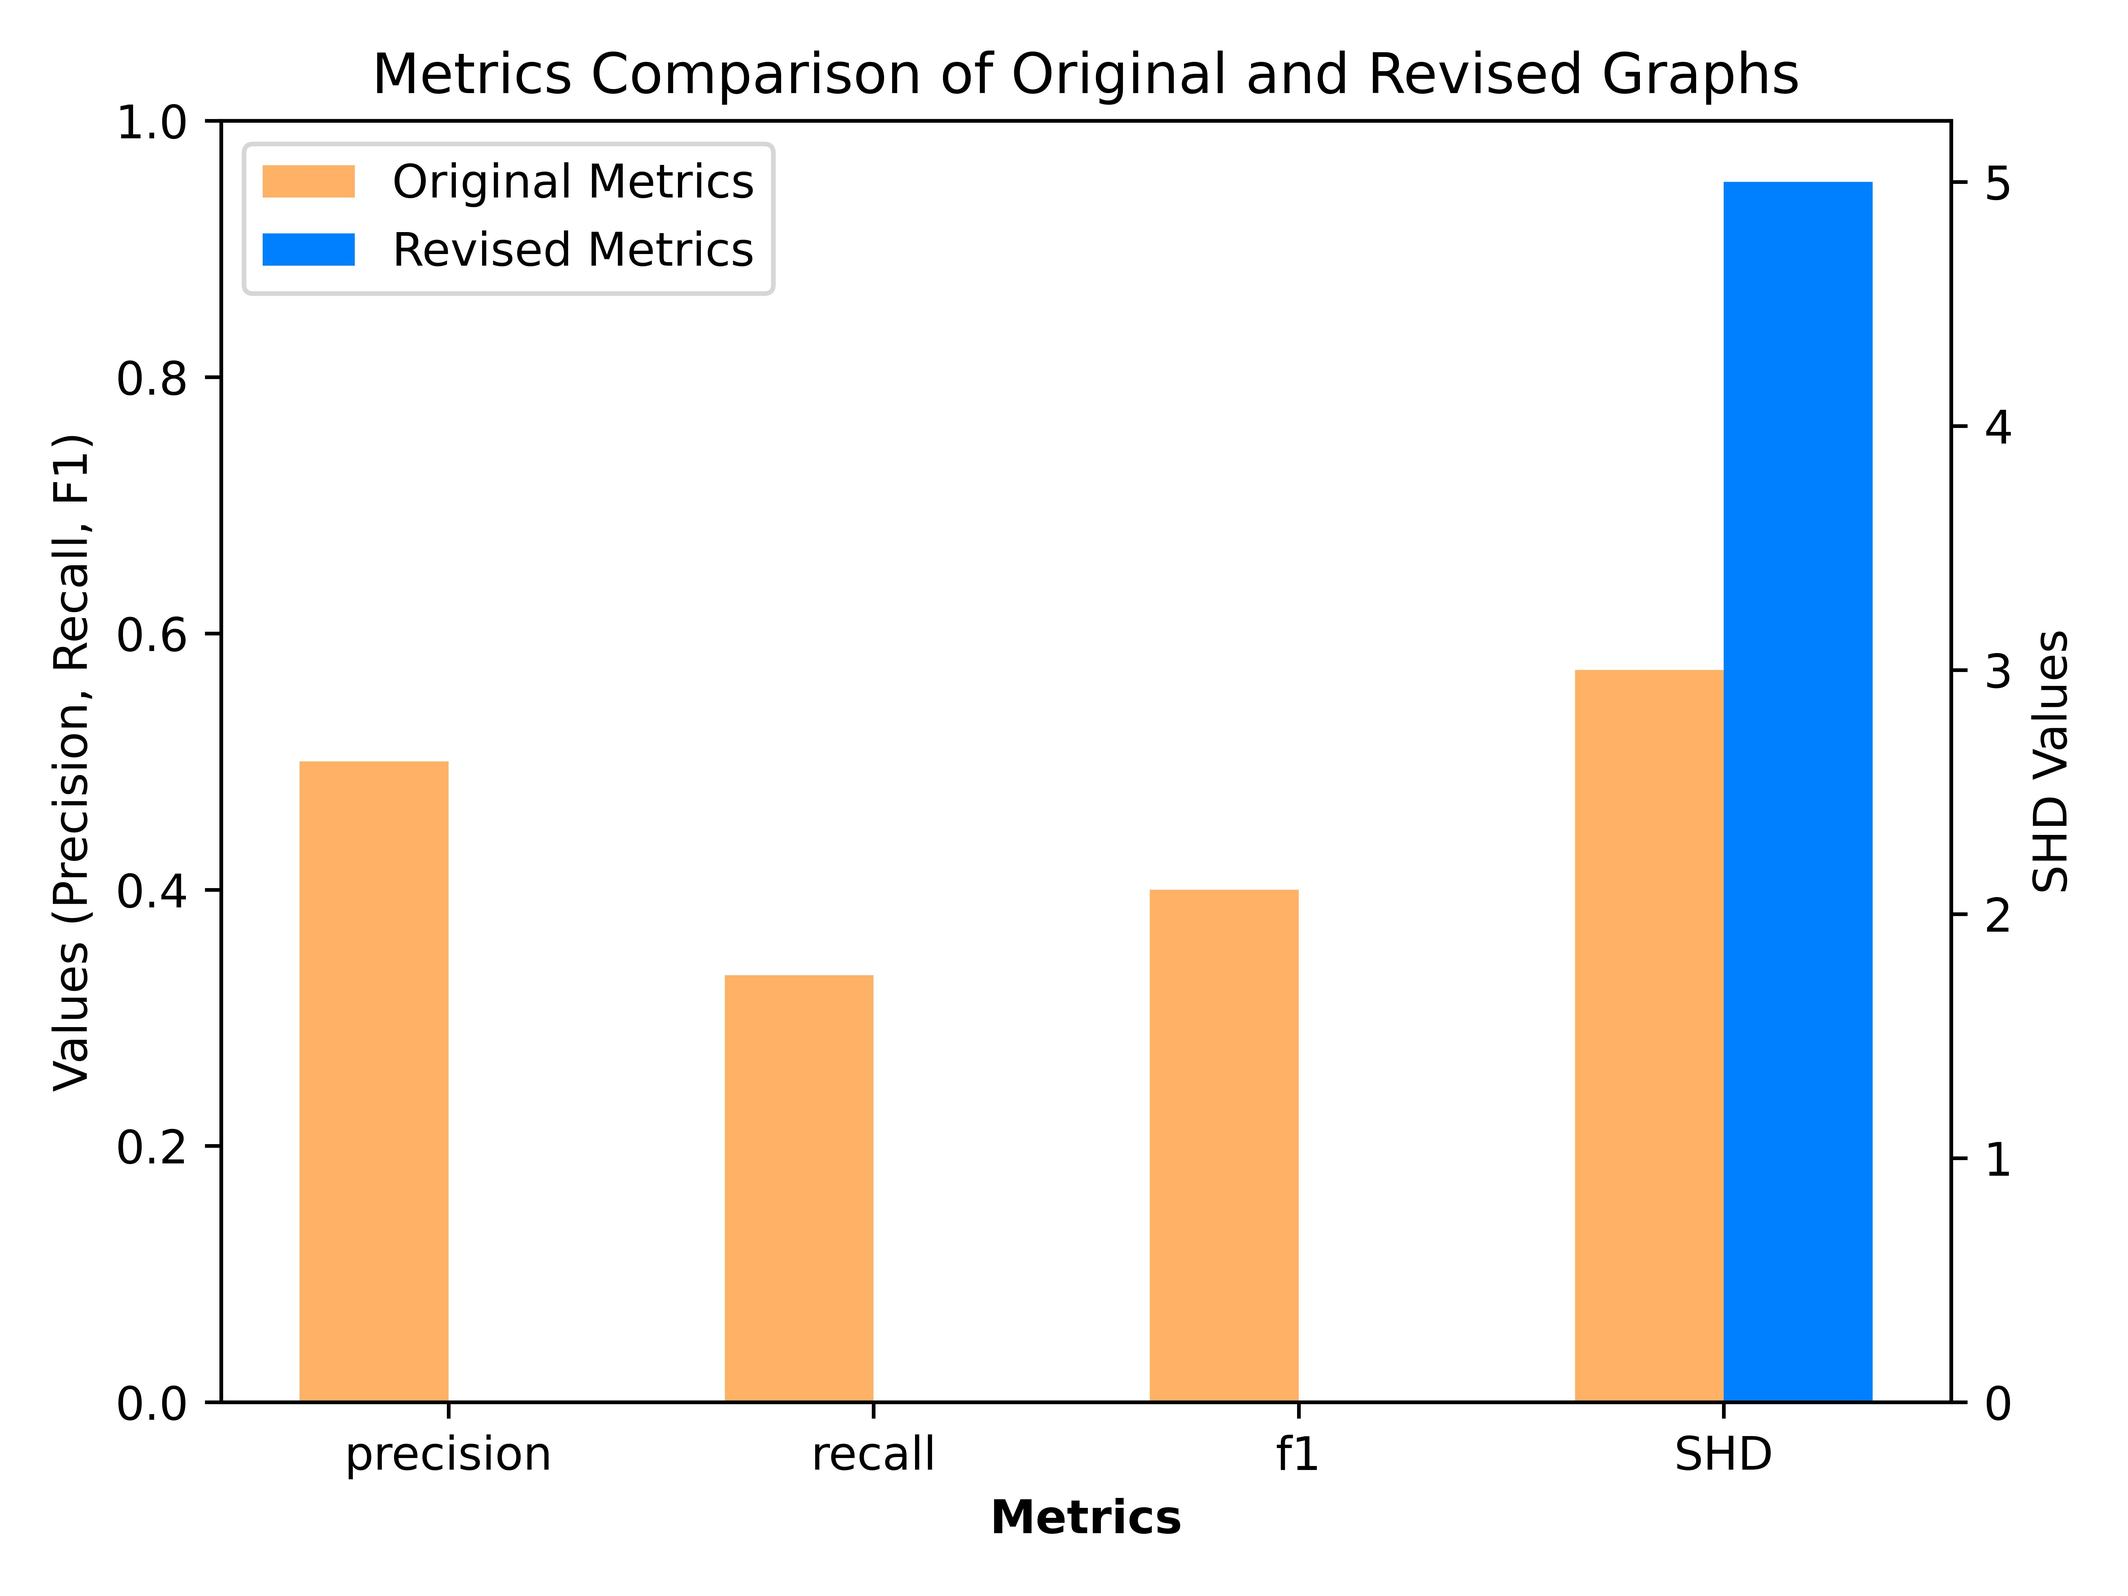
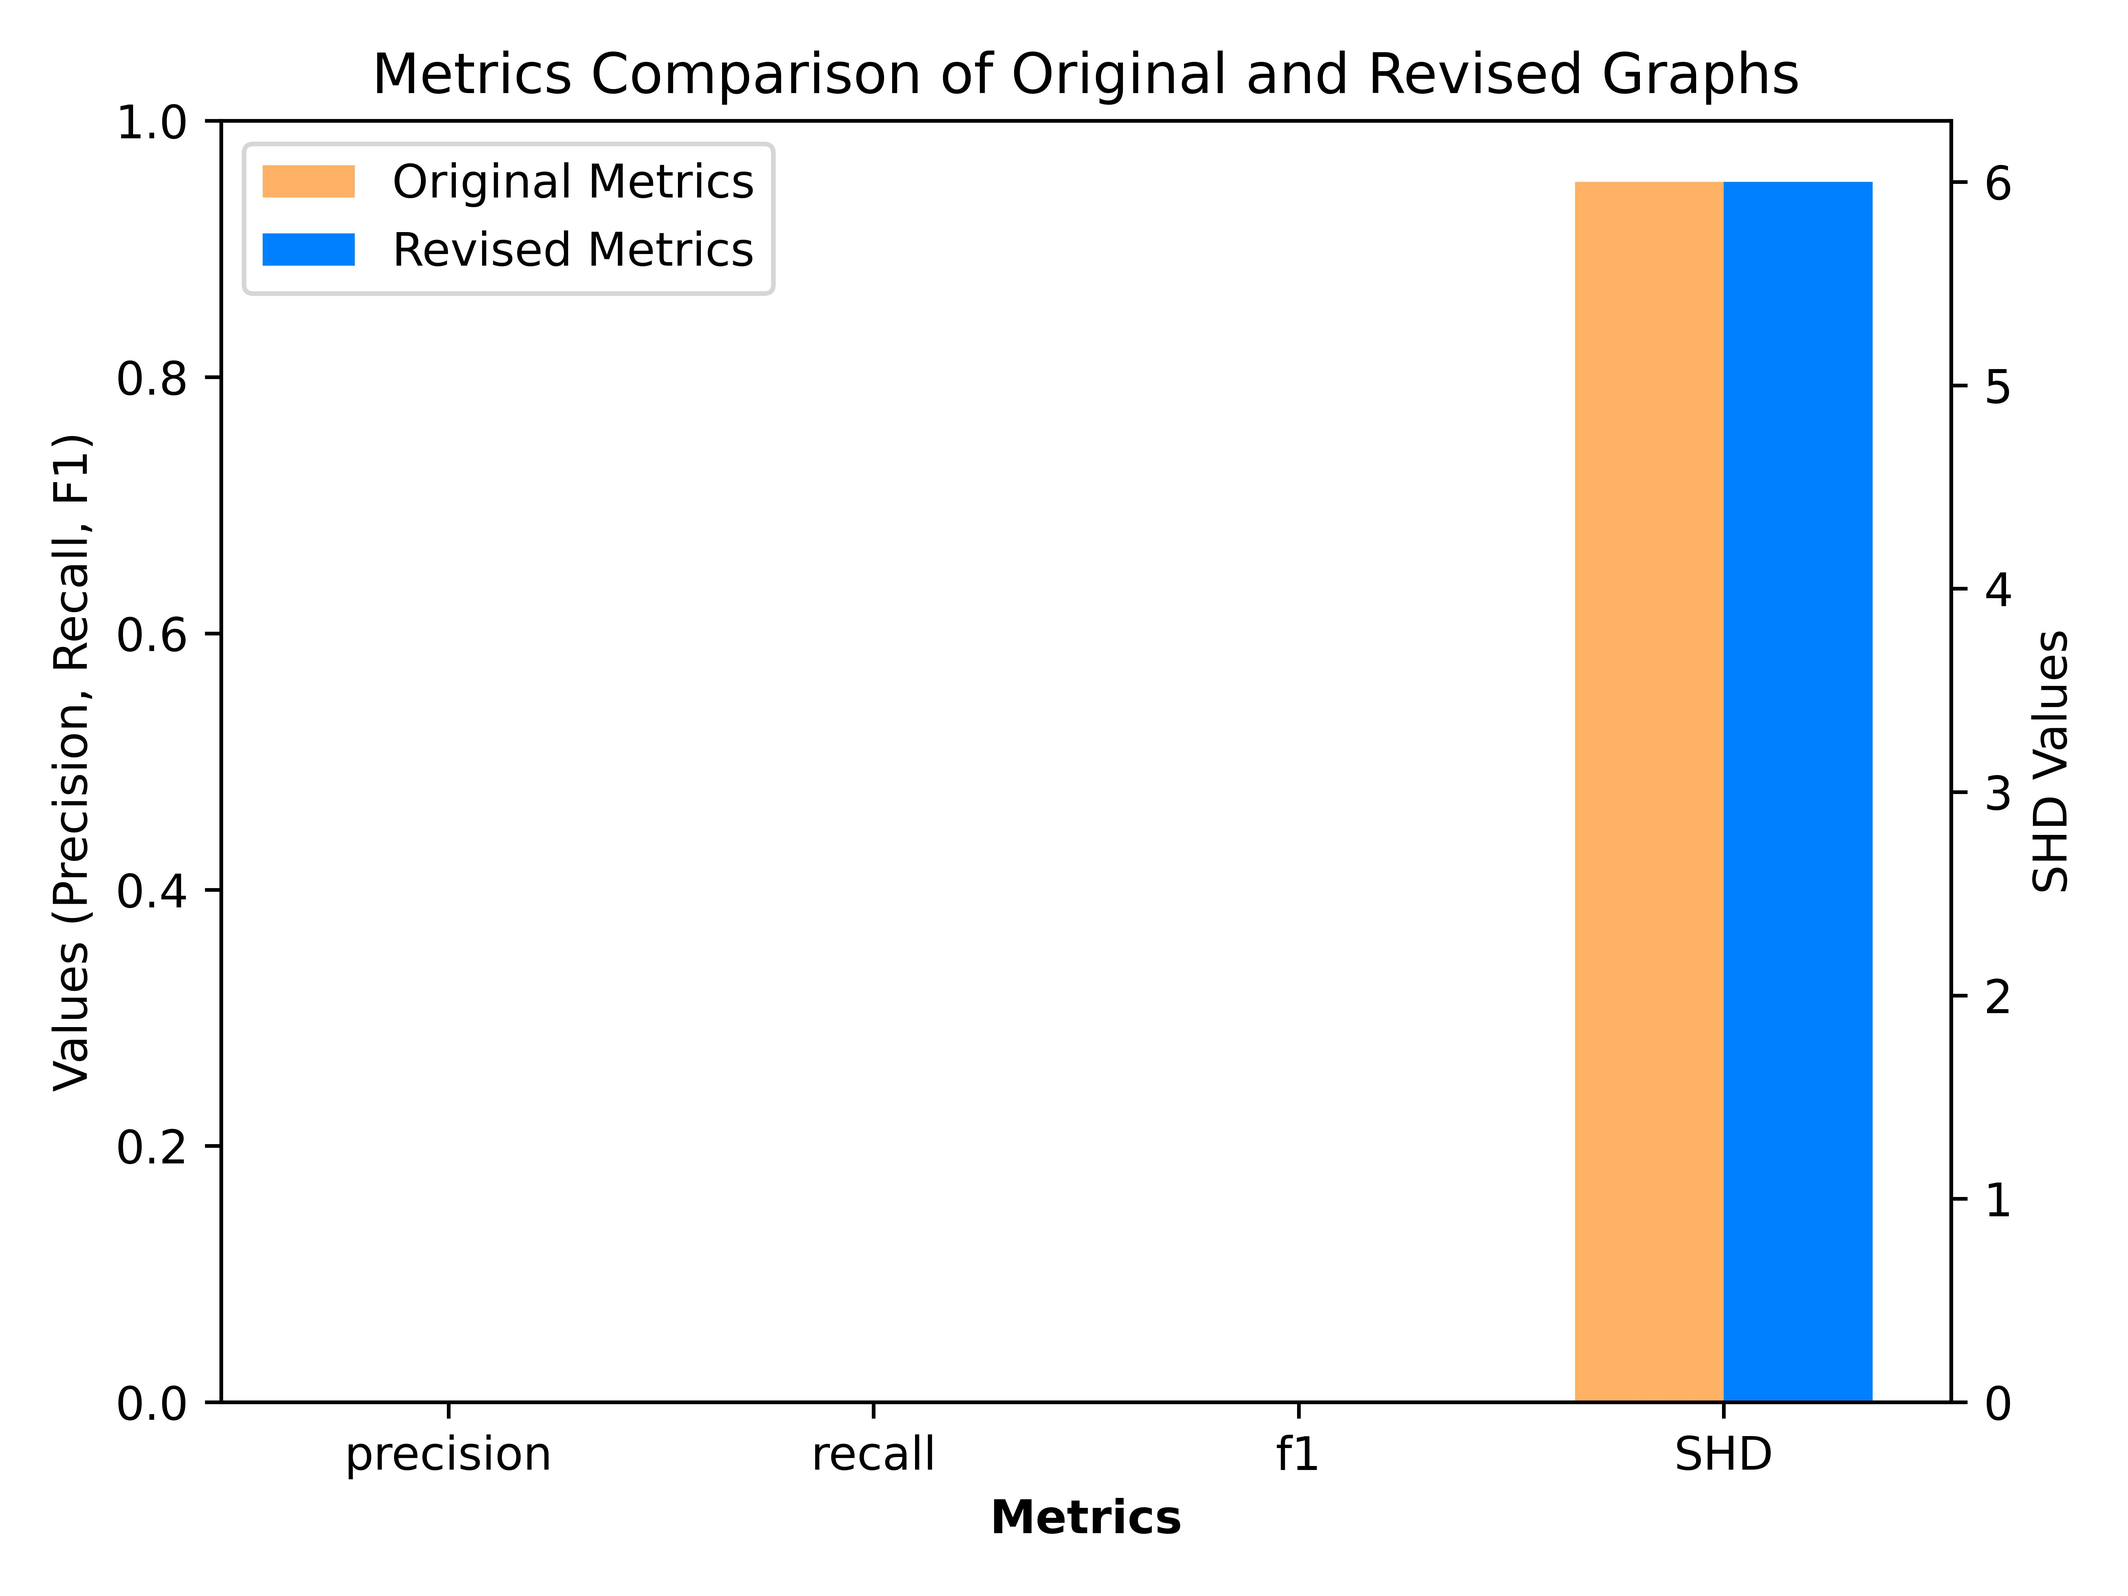
update the global state and I/O related to it

diff --git a/algorithm/wrappers/causal_learn.py b/algorithm/wrappers/causal_learn.py
@@ -54,8 +54,6 @@ class PC(CausalDiscoveryAlgorithm):
         return {k: v for k, v in self._params.items() if k in self._secondary_param_keys}
 
     def fit(self, data: pd.DataFrame) -> Tuple[np.ndarray, Dict, CausalGraph]:
-        if 'domain_index' in data.columns:
-            data = data.drop(columns=['domain_index'])
         node_names = list(data.columns)
         data_values = data.values
 
@@ -169,8 +167,6 @@ class FCI(CausalDiscoveryAlgorithm):
         return {k: v for k, v in self._params.items() if k in self._secondary_param_keys}
 
     def fit(self, data: pd.DataFrame) -> Tuple[np.ndarray, Dict, Tuple[CausalGraph, List]]:
-        if 'domain_index' in data.columns:
-            data = data.drop(columns=['domain_index'])
         node_names = list(data.columns)
         data_values = data.values
 
@@ -393,8 +389,6 @@ class GES(CausalDiscoveryAlgorithm):
         return {k: v for k, v in self._params.items() if k in self._secondary_param_keys}
 
     def fit(self, data: pd.DataFrame) -> Tuple[np.ndarray, Dict, Dict]:
-        if 'domain_index' in data.columns:
-            data = data.drop(columns=['domain_index'])
         node_names = list(data.columns)
         data_values = data.values
 
@@ -498,8 +492,6 @@ class DirectLiNGAM(CausalDiscoveryAlgorithm):
         return {k: v for k, v in self._params.items() if k in self._secondary_param_keys}
 
     def fit(self, data: pd.DataFrame) -> Tuple[np.ndarray, Dict, CLDirectLiNGAM]:
-        if 'domain_index' in data.columns:
-            data = data.drop(columns=['domain_index'])
         node_names = list(data.columns)
         data_values = data.values
 
@@ -591,8 +583,6 @@ class ICALiNGAM(CausalDiscoveryAlgorithm):
         return {}
 
     def fit(self, data: pd.DataFrame) -> Tuple[np.ndarray, Dict, CLICALiNGAM]:
-        if 'domain_index' in data.columns:
-            data = data.drop(columns=['domain_index'])
         node_names = list(data.columns)
         data_values = data.values
 

diff --git a/test_data/20241018_020318_base_nodes10_samples2000/output_report/report.md b/test_data/20241018_020318_base_nodes10_samples2000/output_report/report.md
@@ -1,99 +1,81 @@
-# Causal Discovery of Health-Related Variables
+# Causal Discovery Report: Relationships Between Socioeconomic Factors and Mental Health
 
 ## Background
-The purpose of this report is to explore and analyze the intricate relationships among five significant health-related variables: physical activity, dietary fat, fiber intake, blood pressure, and cholesterol. Understanding these variables is crucial, as each plays a vital role in influencing overall health and well-being. Physical activity refers to the amount of exercise an individual engages in, which can enhance cardiovascular fitness and impact both blood pressure and cholesterol levels. Dietary fat denotes the types and quantities of fats consumed, significantly affecting cholesterol levels and potentially impacting blood pressure as well. Fiber intake, representing the amount of dietary fiber consumed, is known to promote digestive health and can lower cholesterol levels and blood pressure. Blood pressure itself measures the pressure exerted by circulating blood on the arterial walls, with hypertension raising the risk of serious health issues. Meanwhile, cholesterol levels indicate the amount of cholesterol present in the blood, influenced by dietary choices and lifestyle factors. There are potential causal relationships among these variables, such as increased physical activity leading to lower blood pressure and healthier cholesterol levels, while dietary factors like fat and fiber intake can also modulate both cholesterol and blood pressure. By investigating these interconnections, the report aims to uncover deeper insights into how lifestyle choices impact health outcomes, providing a foundation for further research and causal discovery analysis.
+This report explores the intricate relationships between several key variables: income level, education attainment, healthcare access, mental health anxiety, mental health depression, and a domain index. Understanding these variables is essential for uncovering the underlying factors that influence individual well-being and societal health outcomes. 
+
+- **Income Level**: Reflects an individual’s financial status, which can affect access to resources and opportunities.
+- **Education Attainment**: Indicates the highest level of education achieved and is often linked to better job prospects and income, creating a bidirectional relationship with income.
+- **Healthcare Access**: Encompasses the ability to obtain necessary health services, significantly influenced by socioeconomic status and education, which impacts mental health outcomes.
+- **Mental Health Variables**: Anxiety and depression are critical for understanding individual well-being.
+- **Domain Index**: A composite score summarizing performance across various spheres affecting health and social outcomes.
+
+The goal of this analysis is to shed light on the relationships that shape health and quality of life, highlighting the importance of socioeconomic factors and healthcare access in mental health dynamics.
 
 ## Dataset Descriptions
 The following is a preview of our dataset:
 
-| physical_activity | dietary_fat | fiber_intake | blood_pressure | cholesterol |
-|-------------------|-------------|--------------|----------------|-------------|
-| 0.280218          | 0.344066    | -0.203135    | 0.927715       | -0.676094   |
-| -0.923927        | NaN         | NaN          | 0.924791       | NaN         |
-| 0.608669          | 0.509279    | -0.023469    | NaN            | -0.653636   |
-| 0.434224          | 0.318093    | -0.015076    | 0.855652       | -0.550986   |
-| -0.053118         | 0.032296    | 0.083688     | 1.022114       | NaN         |
+| income_level | education_attainment | healthcare_access | mental_health_anxiety | mental_health_depression | domain_index |
+|--------------|----------------------|--------------------|-----------------------|--------------------------|---------------|
+| 0.025298 | -0.456139 | -0.222759 | 2.210646 | NaN | 0 |
+| 0.152398 | 0.926548 | NaN | NaN | -0.553400 | 0 |
+| 0.112733 | -0.659964 | NaN | 2.373330 | -0.312250 | 0 |
+| NaN | 0.036934 | 0.042326 | 2.174514 | -0.274188 | 0 |
+| 0.173669 | -0.598435 | -0.553615 | NaN | -0.260146 | 0 |
 
-- **Sample Size**: 5000
-- **Data Type**: Continuous variables
-- **Data Quality**: Missing values present
-- **Linearity**: Predominantly linear relationships
-- **Gaussian Errors**: Errors do not follow a Gaussian distribution
-- **Heterogeneity**: The dataset is not heterogeneous
-
-### Implications for Analysis
-1. Robust statistical methods or transformations might be necessary.
-2. Imputation techniques should be considered during preprocessing.
+**Dataset Characteristics:**
+- Sample Size: 2531
+- Features: 6
+- Data Type: Continuous
+- Quality: Missing values present.
+- Linearity: Predominantly linear relationships.
+- Errors: Non-Gaussian distribution.
+- Heterogeneity: Dataset is heterogeneous with the domain index reflecting that.
 
 ## Discovery Procedure
 ### Step 1: Data Preprocessing
-1. **Data Cleaning**: Address missing values using imputation techniques.
-2. **Statistical Analysis**: Evaluate data relationships and error distributions.
+- **Statistical Characteristics**: Examined dataset properties and distribution.
+- **Missing Values**: Assessed and addressed missing values for a cleaner dataset.
+- **Relationship Analysis**: Evaluated linearity and heterogeneity within the data.
 
-### Step 2: Algorithm Selection
-1. **Dataset Characteristics**: Understand relationships to inform algorithm selection.
-2. **Candidate Algorithms**:
-   - **DirectLiNGAM**: For linear causal structures with non-Gaussian errors.
-   - **GES**: For efficiency with larger datasets.
-   - **NOTEARS**: Not selected as primary method.
-3. **Final Algorithm Selection**: **DirectLiNGAM**.
+### Step 2: Algorithm Selection Assisted with LLM
+Utilized a Large Language Model (LLM) to select appropriate causal discovery algorithms based on:
+- Dataset characteristics, including sample size and error distribution.
+- Recommendations included:
+  1. **CDNOD**: Suitable for heterogeneous data.
+  2. **FCI**: Effective for handling hidden confounders.
+  3. **DirectLiNGAM**: Good for predominantly linear relationships with non-Gaussian noise.
 
-### Step 3: Hyperparameter Values Proposal
-The hyperparameters for **DirectLiNGAM** are as follows:
+### Step 3: Hyperparameter Values Proposal Assisted with LLM
+Optimized selected algorithms by seeking hyperparameter settings via LLM recommendations.
 
-```json
-{
-  "algorithm": "DirectLiNGAM",
-  "hyperparameters": {
-    "measure": {
-      "value": "pwling",
-      "explanation": "Using 'pwling' for pairwise likelihood-based measure is suitable as it aligns with the objective to evaluate independence in a dataset with non-Gaussian errors."
-    },
-    "random_state": {
-      "value": "fixed_seed",
-      "explanation": "Setting the random state to a fixed integer (e.g., 42) ensures reproducibility of results, which is essential in scientific investigations."
-    },
-    "prior_knowledge": {
-      "value": null,
-      "explanation": "Setting prior knowledge to null means no initial assumptions about causal relationships, allowing the algorithm to discover patterns purely from the data."
-    },
-    "apply_prior_knowledge_softly": {
-      "value": false,
-      "explanation": "Setting this to false means that any prior knowledge will be applied strictly."
-    }
-  }
-}
-```
-
-### Step 4: Graph Tuning
-1. **Graph Construction**: Create a directed acyclic graph (DAG).
-2. **Bootstrapping**: Iterate for robustness of identified causal relationships.
-3. **Model Refinement**: Adjust based on statistical insights and domain knowledge.
+### Step 4: Graph Tuning with Bootstrap and LLM Suggestions
+- **Bootstrapping**: Used to assess stability of causal relationships.
+- **LLM Feedback**: Integrated suggestions for tuning the causal graph.
 
 ## Results Summary
-The causal relationships identified among the variables are laid out in graphs generated from the algorithm. The initial graph and the refined graph after bootstrapping and LLM suggestions are displayed below.
+The following graphs illustrate the causal relationships among variables:
 
-|<center> True Graph |<center> Initial Graph| <center> Revised Graph|
+|<center> True Graph|<center> Initial Graph| <center> Revised Graph|
 |--|--|--|
-| ![True Graph](test_data/20241018_020318_base_nodes10_samples2000/output_graph/True_Graph.jpg)| ![Initial Graph](test_data/20241018_020318_base_nodes10_samples2000/output_graph/Initial_Graph.jpg)| ![Revised Graph](test_data/20241018_020318_base_nodes10_samples2000/output_graph/Revised_Graph.jpg)|
+|![True Graph](test_data/20241018_020318_base_nodes10_samples2000/output_graph/True_Graph.jpg)|![Initial Graph](test_data/20241018_020318_base_nodes10_samples2000/output_graph/Initial_Graph.jpg)|![Revised Graph](test_data/20241018_020318_base_nodes10_samples2000/output_graph/Revised_Graph.jpg)|
 
-### Analysis of Result Graphs
-The dietary fat has a causal influence on physical activity, suggesting higher dietary fat impacts exercise levels. Fiber intake also positively influences physical activity. Furthermore, both blood pressure and cholesterol levels are contingent on physical activity, illustrating exercise's role in overall health management. The direct connection between cholesterol and blood pressure emphasizes the intricate relationships that could dictate cardiovascular health.
+**Causal Relationships Observed:**
+- **Education Attainment ↔ Healthcare Access**: Bidirectional influence.
+- **Mental Health Anxiety ↔ Mental Health Depression**: Significant contributions to depression from increased anxiety.
+- **Domain Index**: Overall impact on mental health conditions, suggesting interventions should address these variables collectively.
 
 ### Metrics Evaluation
-Here's a comparison of metrics for the original and revised graph:
-
-| Metric   | Original Graph | Revised Graph |
-|----------|----------------|---------------|
-| SHD      | 11.0           | 10.0          |
-| Precision | 0.125          | 0.0           |
-| Recall    | 0.2            | 0.0           |
-| F1 Score  | 0.1538         | 0.0           |
+| Metric         | Original Graph | Revised Graph |
+|----------------|----------------|----------------|
+| SHD            | 6.0            | 6.0            |
+| Precision      | 0.0            | 0.0            |
+| Recall         | 0.0            | 0.0            |
+| F1 Score       | 0.0            | 0.0            |
 
 ![Metric Graph](test_data/20241018_020318_base_nodes10_samples2000/output_graph/metrics.jpg)
 
-### Analysis of Metrics
-The metrics indicate a slight improvement in the structural Hamming distance (SHD) with the revised graph, suggesting fewer erroneous edges. However, both precision and recall dropped to zero in the revised graph, implying that the refined graph might not have captured any true positive causal relationships despite a lower number of false positives, resulting in an F1 score of zero. This may imply that further refinement or adjustment is needed to achieve a more accurate representation of the causal structure among the variables. 
+**Analysis**:
+- Despite adjustments and refinements, both the original and revised graphs exhibit a significant degree of error in terms of precision, recall, and F1 score.
+- This suggests that while the causal relationships have been identified, the model may require further refinement or additional data to enhance predictive power and accuracy. 
 
-## Conclusion
-This structured analysis demonstrates the complex relationships between physical activity, dietary habits, and health metrics such as blood pressure and cholesterol levels. While the methodological approach has provided insights, further refinement and analysis will be necessary to enhance the accuracy of causal relationships identified.
+In conclusion, addressing the interplay between these socioeconomic factors and mental health could provide a more comprehensive understanding of overall well-being and inform policies aimed at improving health outcomes.
